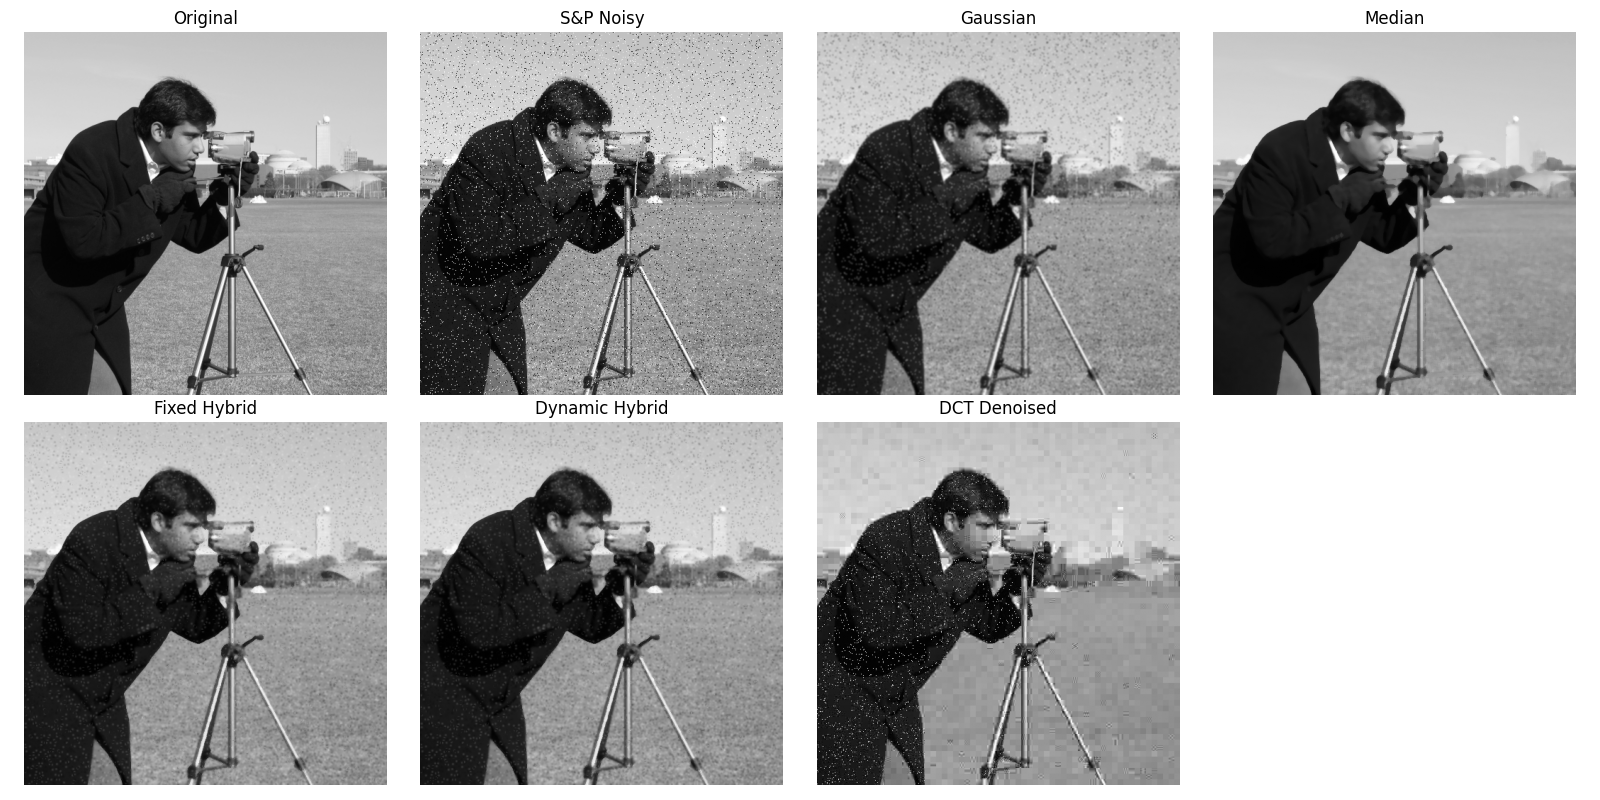
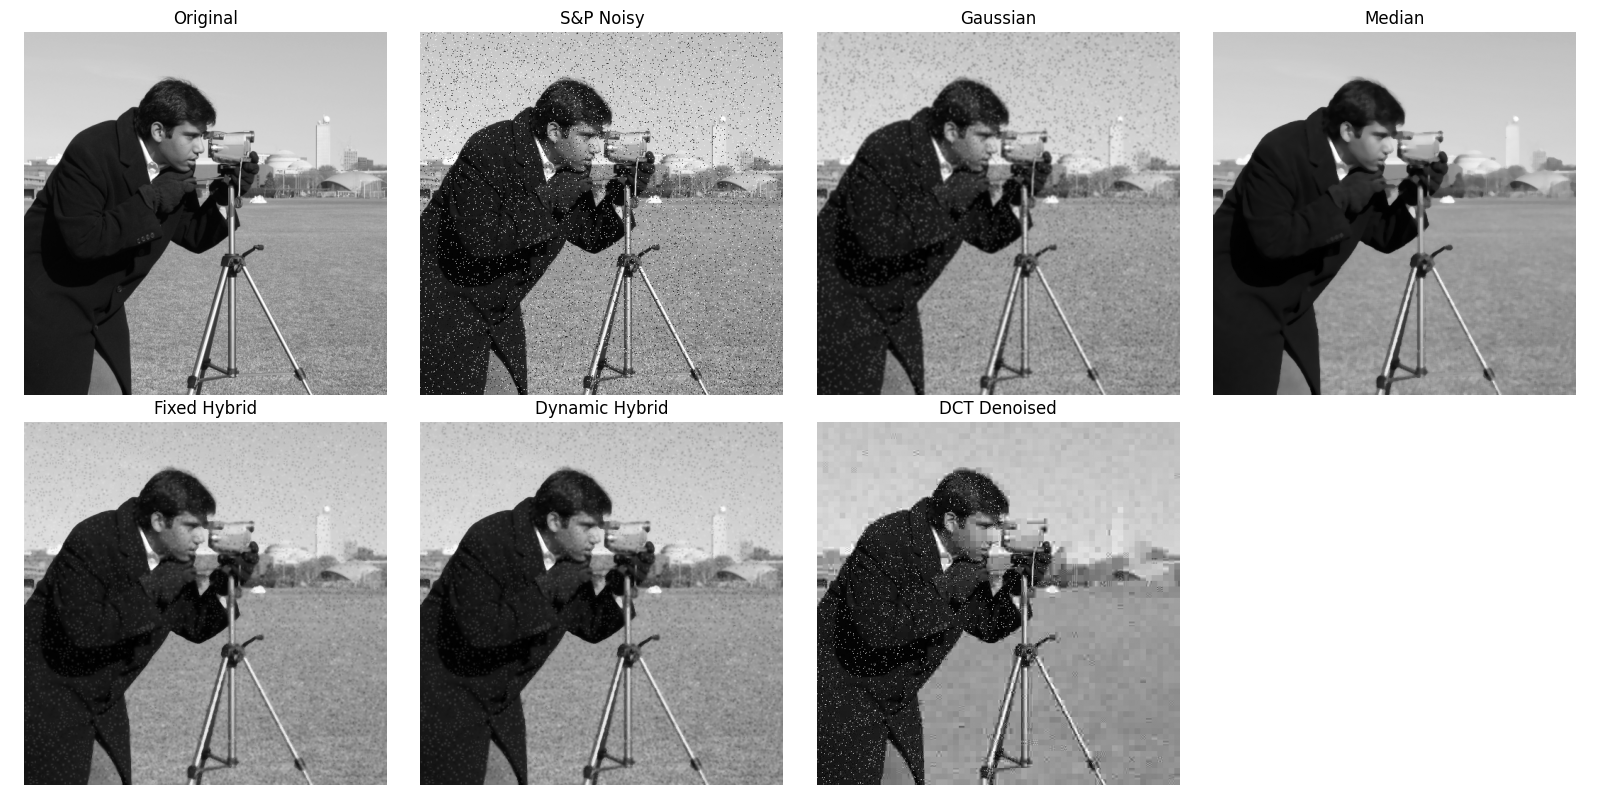
added gitigonre

Changed region(s): [[0.25, 0.0312, 0.5, 0.5], [0.5, 0.5938, 0.6562, 0.9688], [0.625, 0.8125, 0.6562, 0.8438]]

diff --git a/adaptive_filter.py b/adaptive_filter.py
@@ -2,11 +2,64 @@ import cv2
 import numpy as np
 from scipy.ndimage import uniform_filter
 
+def create_gaussian_kernel(size=5, sigma=1.0):
+    """Generates a 2D Gaussian kernel manually."""
+    k = size // 2
+    x, y = np.mgrid[-k:k+1, -k:k+1]
+    normal = 1 / (2.0 * np.pi * sigma**2)
+    g = np.exp(-((x**2 + y**2) / (2.0*sigma**2))) * normal
+    return g / g.sum()
+
+from scipy.ndimage import convolve
+from numpy.lib.stride_tricks import sliding_window_view
+
 def apply_gaussian(image, kernel_size=(5, 5), sigma=0):
-    return cv2.GaussianBlur(image, kernel_size, sigma)
+    k_size = kernel_size[0]
+    if sigma <= 0: # OpenCV default formula
+        sigma = 0.3 * ((k_size - 1) * 0.5 - 1) + 0.8 
+        
+    kernel = create_gaussian_kernel(size=k_size, sigma=sigma)
+    
+    if len(image.shape) == 3:
+        res = np.zeros_like(image, dtype=np.float32)
+        for i in range(3):
+            # Apply convolution manually
+            res[:,:,i] = convolve(image[:,:,i].astype(np.float32), kernel, mode='reflect')
+        return np.clip(res, 0, 255).astype(np.uint8)
+    else:
+        # Apply convolution manually
+        res = convolve(image.astype(np.float32), kernel, mode='reflect')
+        return np.clip(res, 0, 255).astype(np.uint8)
 
 def apply_median(image, kernel_size=5):
-    return cv2.medianBlur(image, kernel_size)
+    """
+    Manual Median Filter:
+    1. Sliding window
+    2. Sort values
+    3. Pick median
+    """
+    pad = kernel_size // 2
+    
+    if len(image.shape) == 3:
+        res = np.zeros_like(image)
+        for c in range(3):
+            padded = np.pad(image[:,:,c], pad, mode='reflect')
+            # Extract sliding window
+            windows = sliding_window_view(padded, (kernel_size, kernel_size))
+            windows_flat = windows.reshape(windows.shape[0], windows.shape[1], -1)
+            # Sort the array natively
+            windows_flat.sort(axis=-1)
+            # Pick median element
+            mid = (kernel_size * kernel_size) // 2
+            res[:,:,c] = windows_flat[:, :, mid]
+        return res
+    else:
+        padded = np.pad(image, pad, mode='reflect')
+        windows = sliding_window_view(padded, (kernel_size, kernel_size))
+        windows_flat = windows.reshape(windows.shape[0], windows.shape[1], -1)
+        windows_flat.sort(axis=-1)
+        mid = (kernel_size * kernel_size) // 2
+        return windows_flat[:, :, mid].astype(np.uint8)
 
 def hybrid_filter_fixed(image, threshold, kernel_size=5):
     gaussian_filtered = apply_gaussian(image, (kernel_size, kernel_size))
@@ -35,6 +88,17 @@ def hybrid_filter_dynamic(image, k_param=1.0, kernel_size=5):
     
     return hybrid_filter_fixed(image, threshold, kernel_size)
 
+def create_dct_matrix(n=8):
+    """Generates the 1D DCT transform matrix."""
+    c = np.zeros((n, n), dtype=np.float32)
+    for u in range(n):
+        for v in range(n):
+            if u == 0:
+                c[u, v] = 1.0 / np.sqrt(n)
+            else:
+                c[u, v] = np.sqrt(2.0 / n) * np.cos((2 * v + 1) * u * np.pi / (2 * n))
+    return c
+
 def apply_dct(image, k_thresh=0.1):
     if len(image.shape) == 3:
         b, g, r = cv2.split(image)
@@ -48,13 +112,23 @@ def apply_dct(image, k_thresh=0.1):
     img_f = gray[:new_h, :new_w].astype(np.float32)
     denoised = np.zeros_like(img_f)
     
+    # Precompute DCT transformation matrix
+    C = create_dct_matrix(8)
+    C_T = C.T
+    
     for i in range(0, new_h, 8):
         for j in range(0, new_w, 8):
             block = img_f[i:i+8, j:j+8]
-            dct_block = cv2.dct(block)
+            
+            # Manual 2D DCT: C * Block * C^T
+            dct_block = C @ block @ C_T
+            
+            # Thresholding
             thresh = k_thresh * np.max(np.abs(dct_block))
             dct_thresh = np.where(np.abs(dct_block) < thresh, 0, dct_block)
-            denoised[i:i+8, j:j+8] = cv2.idct(dct_thresh)
+            
+            # Manual 2D Inverse DCT: C^T * DCT_Block * C
+            denoised[i:i+8, j:j+8] = C_T @ dct_thresh @ C
             
     final_img = np.zeros_like(gray, dtype=np.uint8)
     final_img[:new_h, :new_w] = np.clip(denoised, 0, 255).astype(np.uint8)
